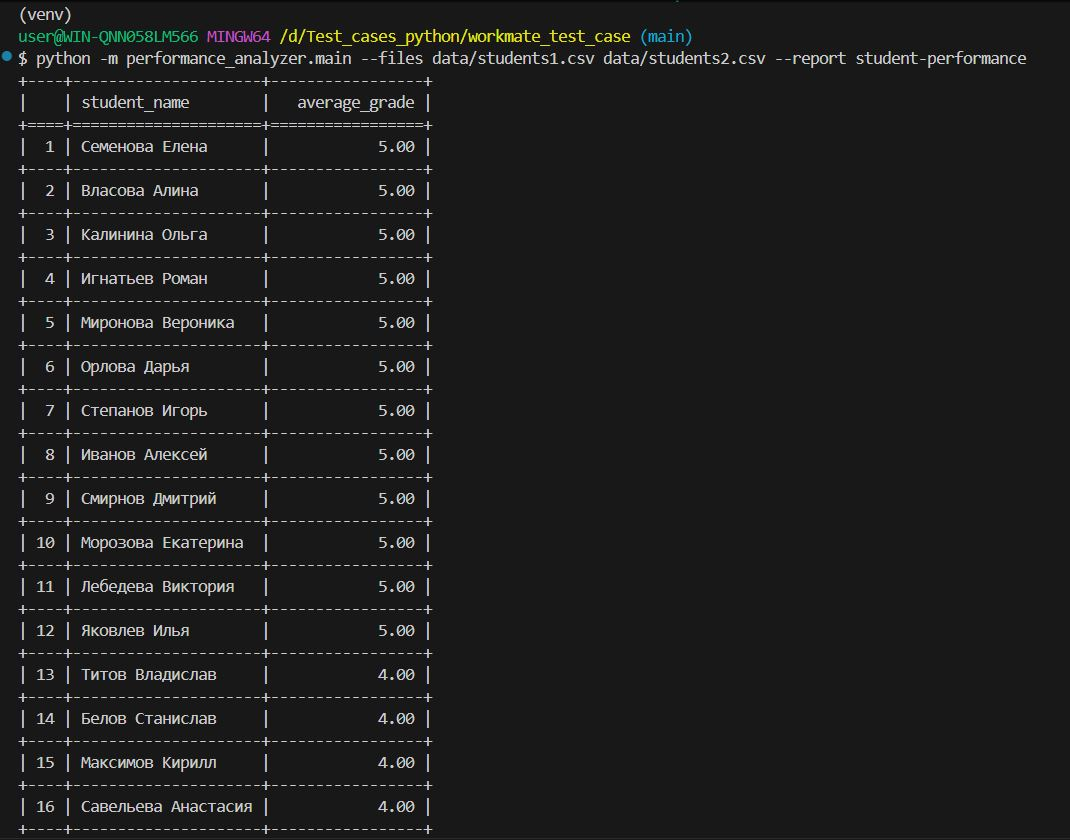
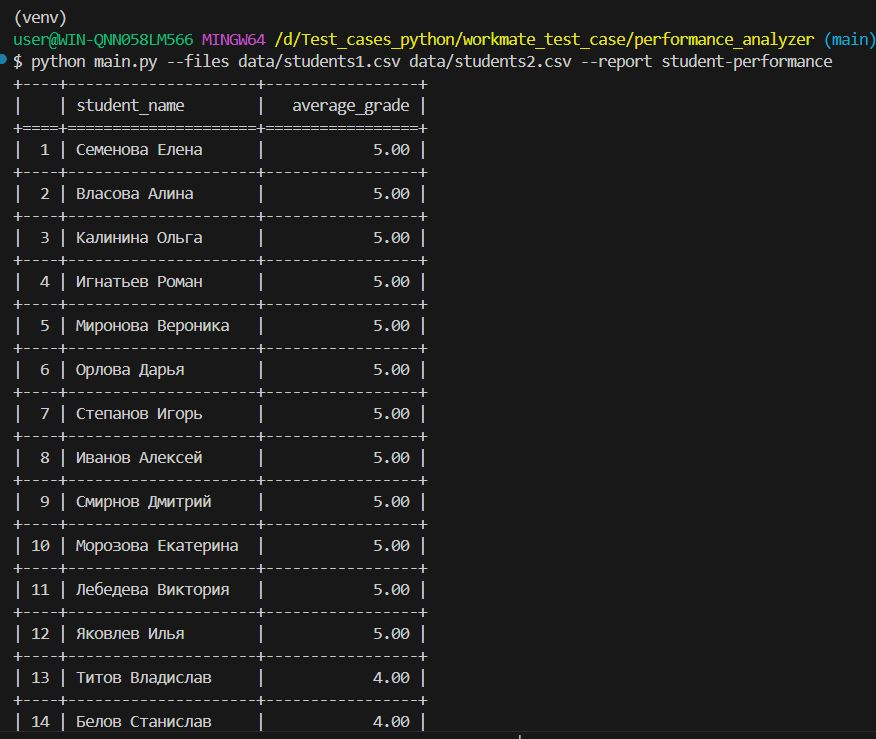
fix_readme

diff --git a/README.md b/README.md
@@ -10,12 +10,12 @@ source venv/Scripts/activate
 pip install -r requirements.txt
 ```
 
-Выполните скрипт performance_analyzer.main с указанием аргументов --files (пусть к файлу csv, можно указать несколько через пробел) и --report (название отчета)
+Перейдите в каталог /performance_analyzer и выполните скрипт main.py с указанием аргументов --files (пусть к файлу csv, можно указать несколько через пробел) и --report (название отчета)
 
 ## Пример запуска
-Находясь в корневом каталоге выполните команду
+Находясь в каталоге /performance_analyzer выполните команду
 ```
-python -m performance_analyzer.main --files data/students1.csv data/students2.csv --report student-performance
+python main.py --files data/students1.csv data/students2.csv --report student-performance
 ```
 Пример вывода
 ![Пример вывода](/example.JPG)
